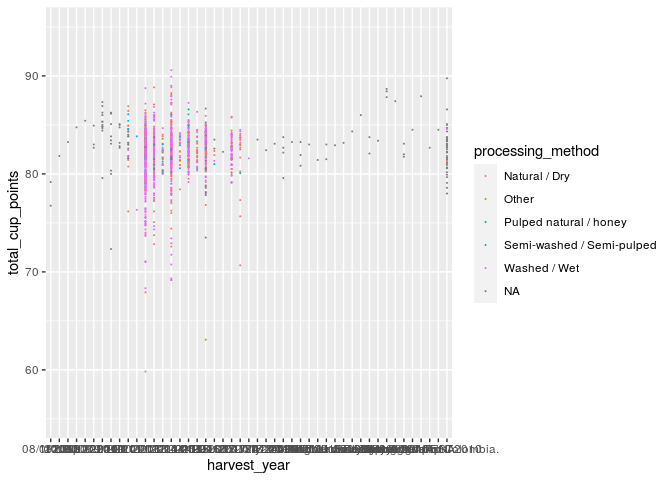
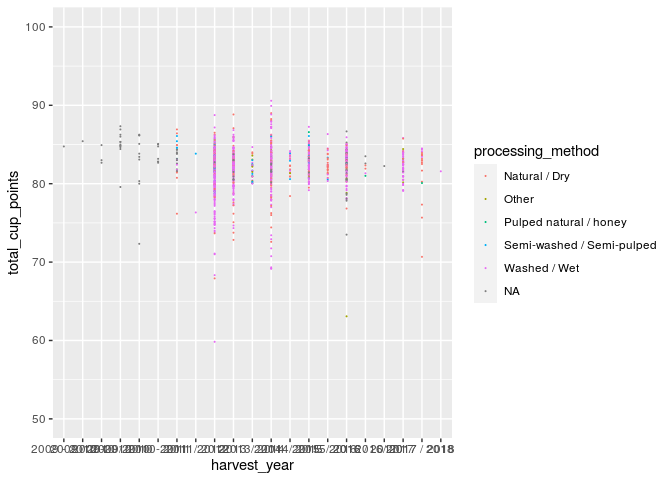
harvest_year&variety plot amended

diff --git a/proposal/proposal.md b/proposal/proposal.md
@@ -236,9 +236,10 @@ ziling_coffee %>%
 coffee_a <- coffee_ratings %>%
   select("total_cup_points","harvest_year","variety","processing_method")
 
-coffee_a%>%
+coffee_a %>%
+  filter(harvest_year <=2018&harvest_year >=2009) %>%
   ggplot(coffee_a, mapping = aes(x = harvest_year, y = total_cup_points, color = processing_method)) +
-  ylim(55,95) +
+  ylim(50,100) +
   geom_point(size = 0.08)
 ```
 
@@ -247,7 +248,7 @@ coffee_a%>%
 ![](proposal_files/figure-gfm/harvest_year-1.png)<!-- -->
 
 ``` r
-coffee_a%>%
+coffee_a %>%
   ggplot(coffee_a, mapping = aes(x = variety, y = total_cup_points, color = processing_method)) +
   ylim(55,95) +
   geom_point(size = 0.08)
@@ -256,12 +257,3 @@ coffee_a%>%
     ## Warning: Removed 1 rows containing missing values (geom_point).
 
 ![](proposal_files/figure-gfm/variety-1.png)<!-- -->
-
-``` r
-coffee_a %>%
-  ggplot(coffee_a, mapping = aes(x = processing_method, y = total_cup_points)) +
-  geom_point(alpha = 0.3) +
-  theme(axis.text.x = element_text(angle = 10, hjust = 1))
-```
-
-![](proposal_files/figure-gfm/coffee_a_processing_method-1.png)<!-- -->
